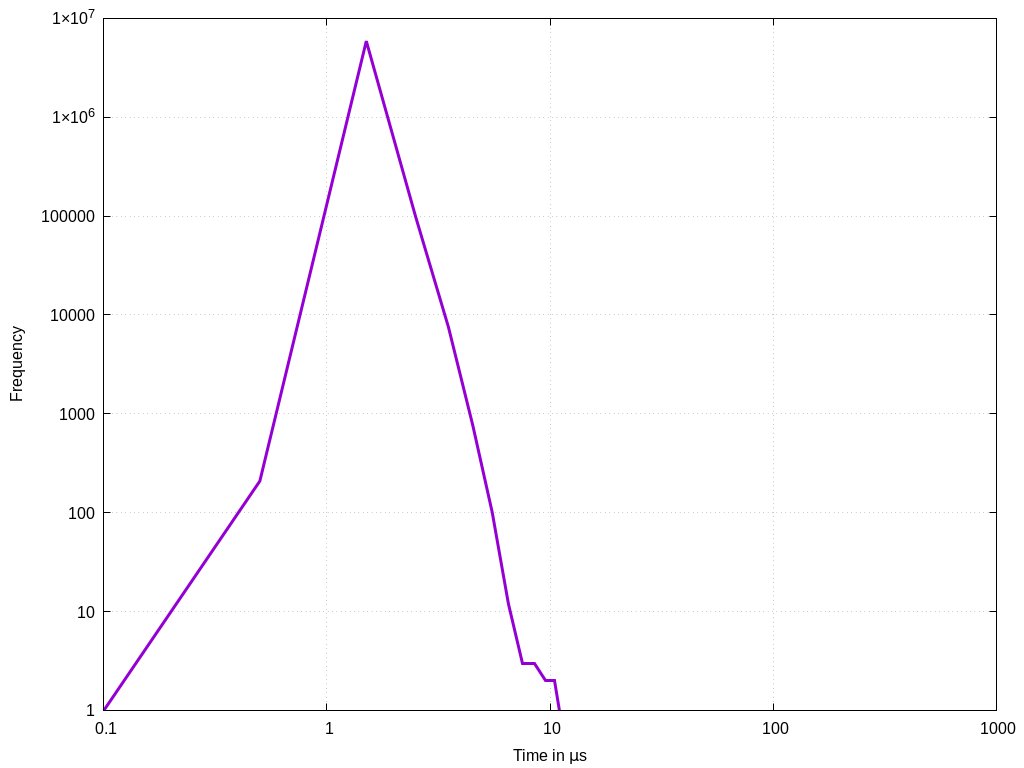
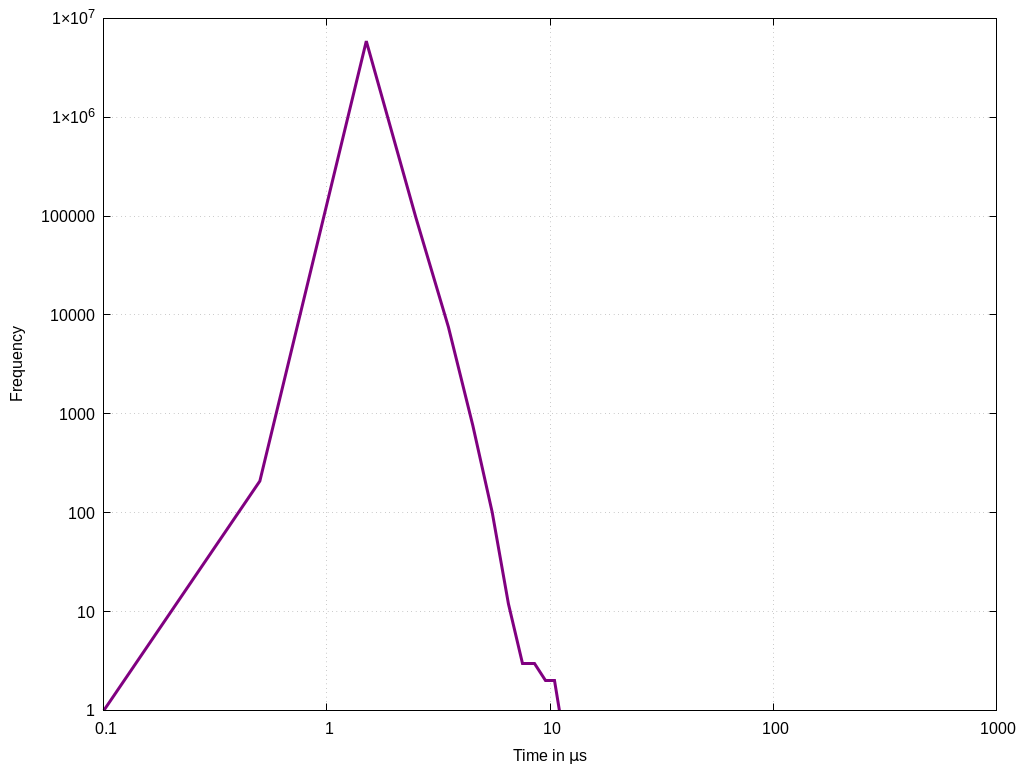
gnuplot_combined

diff --git a/masterthesis-documentation/docs/sigmatek/xenomai/0hardware/max_latency_hardware/max_latency_hardware.py b/masterthesis-documentation/docs/sigmatek/xenomai/0hardware/max_latency_hardware/max_latency_hardware.py
@@ -20,7 +20,7 @@ print(f"Average: {round(average_y, 2)}")
 
 # Create the plot
 plt.figure(figsize=(10, 6))
-plt.plot(x, y,'-', color='blue')
+plt.plot(x, y,'-', color='purple')
 
 # Set the title and labels
 #plt.title('Latency of Operating System')

diff --git a/masterthesis-documentation/docs/sigmatek/xenomai/01combined/max_latency_combined_10min_gnoplot.md b/masterthesis-documentation/docs/sigmatek/xenomai/01combined/max_latency_combined_10min_gnoplot.md
@@ -1,8 +1,8 @@
-# gnuplot hardware
+# gnuplot combined
 ```bash
 # Set output to a PNG file
 set terminal pngcairo enhanced font 'Arial,12' size 1024,768
-set output 'gnuplot_max_latency_hardware.png'
+set output 'gnuplot_combined_max_latency.png'
 set encoding utf8
 
 # Set the title and labels
@@ -25,8 +25,9 @@ set mytics 1
 set grid ytics
 set grid xtics
 
-# Plot the data with thicker lines
-plot 'max_latency_hardware_10min.txt' using 1:2 with lines linewidth 3 linecolor rgb "#800080" title ''
+# Plot the data with thicker lines and different colors
+plot '../0hardware/max_latency_hardware_10min.txt' using 1:2 with lines linewidth 3 linecolor rgb "#800080" title 'Hardware', \
+     '../1default/max_latency_default_10min.txt' using 1:2 with lines linewidth 3 linecolor rgb "blue" title 'Virtualization'
 ```
 
-![gnuplot_max_latency_hardware.png](gnuplot_max_latency_hardware.png)
+![gnuplot_combined_max_latency.png](gnuplot_combined_max_latency.png)

diff --git a/masterthesis-documentation/docs/sigmatek/xenomai/1default/max_latency_default_10min_gnoplot.md b/masterthesis-documentation/docs/sigmatek/xenomai/1default/max_latency_default_10min_gnoplot.md
@@ -26,7 +26,7 @@ set grid ytics
 set grid xtics
 
 # Plot the data with thicker lines
-plot 'max_latency_default_10min.txt' using 1:2 with lines linewidth 3 title ''
+plot 'max_latency_default_10min.txt' using 1:2 with lines linewidth 3 linecolor rgb "blue" title ''
 ```
 
 ![gnuplot_max_latency_default.png](gnuplot_max_latency_default.png)
